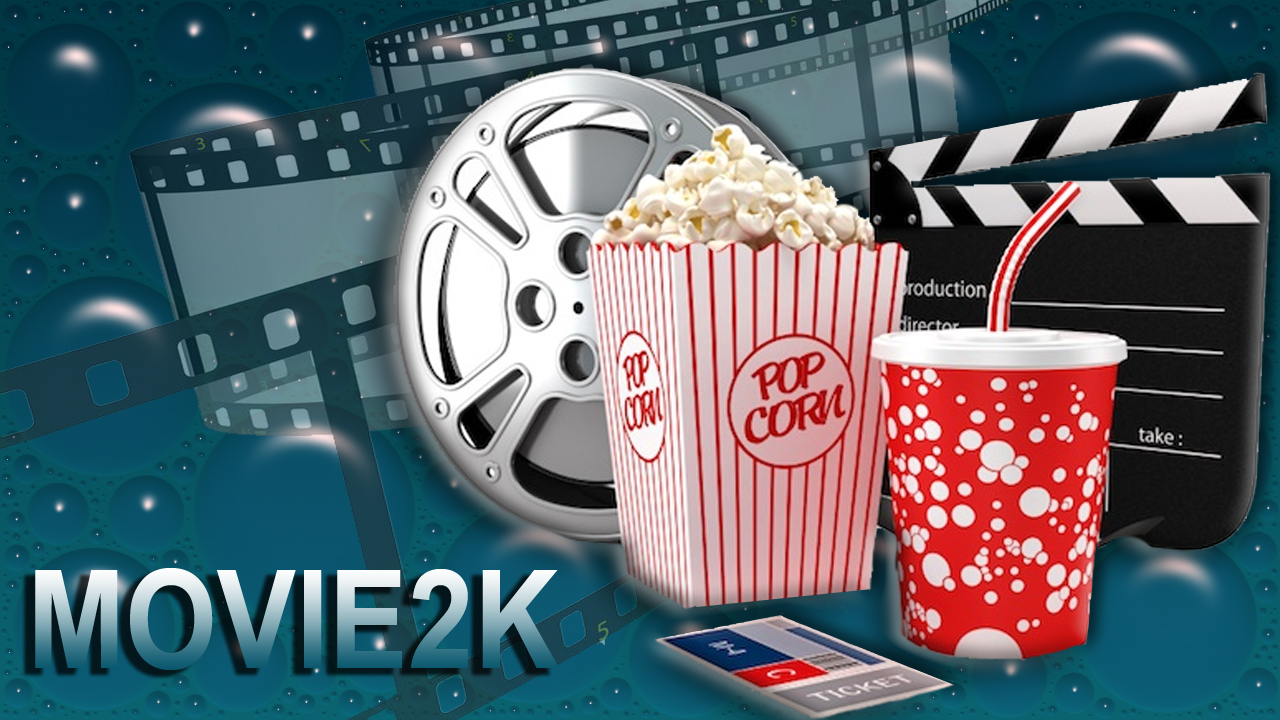
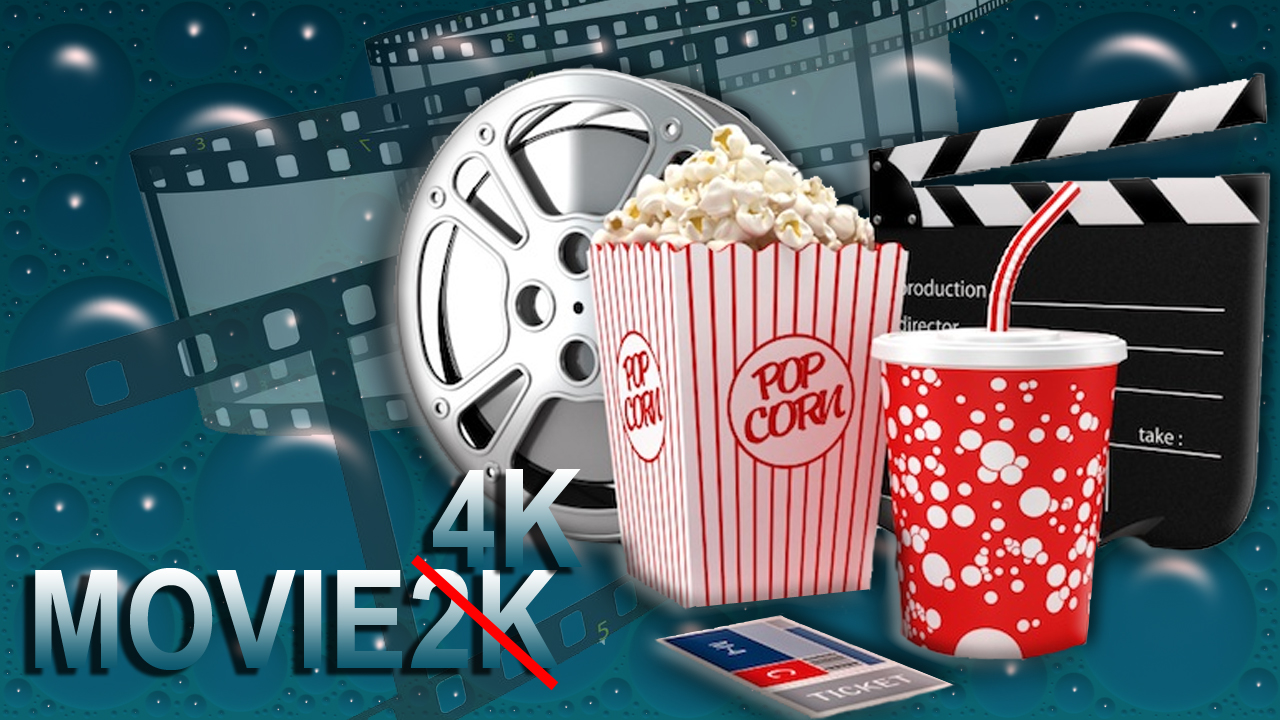
Modified plug-in to match site being moved to movie4k.to

Changed region(s): [[0.3125, 0.6417, 0.4688, 0.8556], [0.375, 0.8556, 0.4375, 0.9472]]

diff --git a/Contents/Code/__init__.py b/Contents/Code/__init__.py
@@ -128,21 +128,22 @@ def Movie2kLogin():
 
 	username = Prefs["username"]
 	password = Prefs["password"]
-	cookiejar = {"xxx2": "ok", "domain": ".movie2k.to", "path": "/", "onlylanguage": "deleted", "lang": "us"}
+	cookiejar = {"xxx2": "ok", "domain": ".movie4k.to", "path": "/", "onlylanguage": "deleted", "lang": "en"}
 	Dict['_movie2k_uid'] = cookiejar
+	HTTP.Headers['Cookie'] = cookiejar
 
 	if (username != None) and (password != None):
 		try:
 			files = {}
+			cookies = {}
 			session = requests.session()
-			url = "http://"+MOVIE2K_URL + "/login.php?ua=login"
+			url = "http://" + MOVIE2K_URL + "/login.php?ua=login"
 			authentication_values = {"username": username, "password": password}
 			authentication_headers = {"Host": MOVIE2K_URL, "Referer": url, "User-Agent": UserAgent[UserAgentNum]}
 			req = session.post(url, data=authentication_values, headers=authentication_headers, files=files, allow_redirects=True)
 			data = req.content.split('<div id="maincontent4">')[1].split('<STRONG>')[1].split('</STRONG>')[0]
 
-			if data == "Logged in!":
-				cookies = {}			
+			if data == "Logged in!":			
 				for key, value in session.cookies.items():
 					cookies[key] = value
 				cookiejar.update(cookies)
@@ -161,7 +162,7 @@ def Movie2kLogin():
 @route(PREFIX + '/Search')
 def Search(query):
 
-	#Search movie2k.to for movies using user input, and populate a list with the results
+	#Search movie4k.to for movies using user input, and populate a list with the results
 
 	# Create a container to hold the results
 	oc = ObjectContainer(title2="Search Results", view_group="InfoList")
@@ -175,7 +176,8 @@ def Search(query):
 	type = 'N/A'
 	dateadd = 'N/A'
 	ads = 'ads.affbuzzads.com'
-	url = "http://" + MOVIE2K_URL + '/movies.php?list=search'
+	Log("MOVIE2k: "+MOVIE2K_URL)
+	url = 'http://' + MOVIE2K_URL + '/movies.php?list=search'
 	payload = {'search': query}
 	files = {}
 	cookies = Dict['_movie2k_uid']
@@ -208,14 +210,18 @@ def Search(query):
 		MOVIES_TITLE = re.sub('\t', '', MOVIES_TD[1].split('<a')[1].split('">')[1].split('</a>')[0]).replace('  ', '')
 
 		try:
-			MOVIES_YEAR = MOVIES_TD[2].split('<div')[9].split('>')[1].split('<')[0]
+			MOVIES_YEAR = MOVIES_TD[2].split('<div')[8].split('>')[1].split('<')[0]
 			if MOVIES_YEAR == "":
 				MOVIES_YEAR = "N/A"
 		except:
 			MOVIES_YEAR = "N/A"
 
 		try:
-			MOVIES_LANG = GetLang(lang=MOVIES_TD[5].split('src="')[1].split('"')[0].split('/')[4].split('.')[0])
+			LANGUAGE_URL = MOVIES_TD[5].split('src="')[1].split('"')[0]
+			try:
+				MOVIES_LANG = GetLang(lang=LANGUAGE_URL.split('/')[5].split('.')[0])
+			except:
+				MOVIES_LANG = GetLang(lang=LANGUAGE_URL.split('/')[4].split('.')[0])
 		except:
 			MOVIES_LANG = "N/A"
 		MOVIES_SUMMARY = "Year: "+MOVIES_YEAR+" | Lang: "+MOVIES_LANG+" | Part of the search line up on Movie2k."
@@ -383,7 +389,11 @@ def TVShowsList(title, page, genre, type):
 	for List in HTML.ElementFromURL(page).xpath('//div[@id="maincontent4"]/table[@id="tablemoviesindex"]/tr'):
 		MOVIES_TD = List.xpath('./td[@id="tdmovies"]')
 		try:
-			MOVIES_LANG = GetLang(lang=MOVIES_TD[1].xpath("./img")[0].get('src').split('/')[4].split('.')[0])
+			LANGUAGE_URL = MOVIES_TD[1].xpath("./img")[0].get('src')
+			try:
+				MOVIES_LANG = GetLang(lang=LANGUAGE_URL.split('/')[5].split('.')[0])
+			except:
+				MOVIES_LANG = GetLang(lang=LANGUAGE_URL.split('/')[4].split('.')[0])
 		except:
 			MOVIES_LANG = "N/A"
 		ICON_MOVIES = "icon-"+genre.lower()+".png"
@@ -419,7 +429,11 @@ def FeaturedTVShowsPageAdd(title, page, type):
 		TVSHOW_TITLE = TVSHOWS_DIV[i].xpath("./a/img")[0].get('title')
 		i += 1
 		TVSHOW_YEAR = re.sub('\s', '', TVSHOWS_DIV[i].xpath('./div[@class="beschreibung"]')[0].text_content().split('Land/Year: ')[1].split('/')[1].split(' ')[0])
-		TVSHOW_LANG = GetLang(lang=TVSHOWS_DIV[i].xpath("./h2//img")[0].get('src').split('/')[4].split('.')[0])
+		LANGUAGE_URL = TVSHOWS_DIV[i].xpath("./h2//img")[0].get('src')
+		try:
+			TVSHOW_LANG = GetLang(lang=LANGUAGE_URL.split('/')[5].split('.')[0])
+		except:
+			TVSHOW_LANG = GetLang(lang=LANGUAGE_URL.split('/')[4].split('.')[0])
 		TVSHOW_SUMMARY = "Year: "+TVSHOW_YEAR+" | Lang: "+TVSHOW_LANG+" | Part of the Featured TV Show line up on Movie2k."
 		i += 2
 		oc.add(DirectoryObject(key=Callback(SubMoviePageAdd, title=TVSHOW_TITLE, page=TVSHOW_PAGE, date=TVSHOW_YEAR, dateadd=dateadd, thumbck=TVSHOW_THUMB, type=type), title=TVSHOW_TITLE, summary=TVSHOW_SUMMARY, thumb=Callback(GetThumb, url=TVSHOW_THUMB)))
@@ -436,7 +450,11 @@ def TVShowSeasons(title, page, genre, type):
 	for Seasons in HTML.ElementFromURL(page).xpath('//div[@id="maincontent4"]/table[@id="tablemoviesindex"]/tr'):
 		MOVIES_TD = Seasons.xpath('./td[@id="tdmovies"]')
 		try:
-			MOVIES_LANG = GetLang(lang=MOVIES_TD[1].xpath("./img")[0].get('src').split('/')[4].split('.')[0])
+			LANGUAGE_URL = MOVIES_TD[1].xpath("./img")[0].get('src')
+			try:
+				MOVIES_LANG = GetLang(lang=LANGUAGE_URL.split('/')[5].split('.')[0])
+			except:
+				MOVIES_LANG = GetLang(lang=LANGUAGE_URL.split('/')[4].split('.')[0])
 		except:
 			MOVIES_LANG = "N/A"
 		ICON_MOVIES = "icon-"+genre.lower()+".png"
@@ -461,7 +479,11 @@ def TVShowEpisodes(title, page, genre, type):
 	for Episodes in HTML.ElementFromURL(page).xpath('//div[@id="maincontent4"]/table[@id="tablemoviesindex"]/tr'):
 		MOVIES_TD = Episodes.xpath('./td[@id="tdmovies"]')
 		try:
-			MOVIES_LANG = GetLang(lang=MOVIES_TD[4].xpath("./img")[0].get('src').split('/')[4].split('.')[0])
+			LANGUAGE_URL = MOVIES_TD[4].xpath("./img")[0].get('src')
+			try:
+				MOVIES_LANG = GetLang(lang=LANGUAGE_URL.split('/')[5].split('.')[0])
+			except:
+				MOVIES_LANG = GetLang(lang=LANGUAGE_URL.split('/')[4].split('.')[0])
 		except:
 			MOVIES_LANG = "N/A"
 		DATE_ADDED = MOVIES_TD[3].text
@@ -470,7 +492,7 @@ def TVShowEpisodes(title, page, genre, type):
 		MOVIES_SUMMARY = "Added: "+DATE_ADDED+" | Lang: "+MOVIES_LANG+" | Part of the "+genre+" TV Shows episode line up on Movie2k."
 		MOVIES_PAGE = MOVIES_TD[0].xpath('./a')[0].get('href')
 		if THUMB == 0:
-			GET_THUMB = HTML.ElementFromURL("http://"+MOVIE2K_URL+"/"+MOVIES_PAGE).xpath('//div[@id="maincontent5"]/div/div')[1]
+			GET_THUMB = HTML.ElementFromURL("http://"+MOVIE2K_URL+"/"+MOVIES_PAGE).xpath('//div[@id="maincontent5"]/div/div')[0]
 			MOVIES_THUMB = GET_THUMB.xpath('./a/img')[0].get('src')
 			THUMB = 1
 
@@ -520,7 +542,7 @@ def Movies(title, type):
 	
 	NotSkip = True
 	cookies = Dict['_movie2k_uid']
-	headers = {"Accept": "text/html,application/xhtml+xml,application/xml;q=0.9,*/*;q=0.8", "Accept-Charset": "ISO-8859-1,utf-8;q=0.7,*;q=0.3", "Accept-Encoding": "gzip,deflate,sdch", "Accept-Language": "en-US,en;q=0.8", "Connection": "keep-alive", "Host": MOVIE2K_URL, "Referer": "http://"+MOVIE2K_URL, "User-Agent": "Mozilla/5.0 (Windows NT 6.1; WOW64) AppleWebKit/537.31 (KHTML, like Gecko) Chrome/26.0.1410.64 Safari/537.31"}
+	headers = {"Accept": "text/html,application/xhtml+xml,application/xml;q=0.9,*/*;q=0.8", "Accept-Charset": "ISO-8859-1,utf-8;q=0.7,*;q=0.3", "Accept-Encoding": "gzip,deflate,sdch", "Accept-Language": "en-US,en;q=0.8", "Connection": "keep-alive", "Host": MOVIE2K_URL, "Referer": "http://"+MOVIE2K_URL, "User-Agent": UserAgent[UserAgentNum]}
 	req = requests.get(GENRE_PAGE, headers=headers, cookies=cookies)
 
 	for Genre in HTML.ElementFromString(req.content).xpath('//div[@id="content"]/table[@id="tablemovies"]/tr'):
@@ -554,7 +576,7 @@ def MovieGenres(title, page, genre, thumb, type):
 	i = 1
 	MOVIES = page+"1.html"
 	cookies = Dict['_movie2k_uid']
-	headers = {"Accept": "text/html,application/xhtml+xml,application/xml;q=0.9,*/*;q=0.8", "Accept-Charset": "ISO-8859-1,utf-8;q=0.7,*;q=0.3", "Accept-Encoding": "gzip,deflate,sdch", "Accept-Language": "en-US,en;q=0.8", "Connection": "keep-alive", "Host": MOVIE2K_URL, "Referer": "http://"+MOVIE2K_URL, "User-Agent": "Mozilla/5.0 (Windows NT 6.1; WOW64) AppleWebKit/537.31 (KHTML, like Gecko) Chrome/26.0.1410.64 Safari/537.31"}
+	headers = {"Accept": "text/html,application/xhtml+xml,application/xml;q=0.9,*/*;q=0.8", "Accept-Charset": "ISO-8859-1,utf-8;q=0.7,*;q=0.3", "Accept-Encoding": "gzip,deflate,sdch", "Accept-Language": "en-US,en;q=0.8", "Connection": "keep-alive", "Host": MOVIE2K_URL, "Referer": "http://"+MOVIE2K_URL, "User-Agent": UserAgent[UserAgentNum]}
 	req = requests.get(MOVIES, headers=headers, cookies=cookies)
 	NUMPAGES = len(HTML.ElementFromString(req.content).xpath('//div[@id="maincontent4"]/div[@id="boxgrey"]')) + 1
 	
@@ -578,7 +600,7 @@ def CinemaMoviePageAdd(title, page, type):
 	oc = ObjectContainer(title2=title)
 	
 	cookies = Dict['_movie2k_uid']
-	headers = {"Accept": "text/html,application/xhtml+xml,application/xml;q=0.9,*/*;q=0.8", "Accept-Charset": "ISO-8859-1,utf-8;q=0.7,*;q=0.3", "Accept-Encoding": "gzip,deflate,sdch", "Accept-Language": "en-US,en;q=0.8", "Connection": "keep-alive", "Host": MOVIE2K_URL, "Referer": "http://"+MOVIE2K_URL, "User-Agent": "Mozilla/5.0 (Windows NT 6.1; WOW64) AppleWebKit/537.31 (KHTML, like Gecko) Chrome/26.0.1410.64 Safari/537.31"}
+	headers = {"Accept": "text/html,application/xhtml+xml,application/xml;q=0.9,*/*;q=0.8", "Accept-Charset": "ISO-8859-1,utf-8;q=0.7,*;q=0.3", "Accept-Encoding": "gzip,deflate,sdch", "Accept-Language": "en-US,en;q=0.8", "Connection": "keep-alive", "Host": MOVIE2K_URL, "Referer": "http://"+MOVIE2K_URL, "User-Agent": UserAgent[UserAgentNum]}
 	req = requests.get(page, headers=headers, cookies=cookies)
 	CINEMA_MOVIE_PAGE = HTML.ElementFromString(req.content)
 	dateadd = 'N/A'
@@ -608,13 +630,13 @@ def CinemaMoviePageAdd(title, page, type):
 def MoviePageAdd(title, page, genre, type):
 	
 	oc = ObjectContainer(title2=title)
-	cookies = Dict['_movie2k_uid']
-	headers = {"Accept": "text/html,application/xhtml+xml,application/xml;q=0.9,*/*;q=0.8", "Accept-Charset": "ISO-8859-1,utf-8;q=0.7,*;q=0.3", "Accept-Encoding": "gzip,deflate,sdch", "Accept-Language": "en-US,en;q=0.8", "Connection": "keep-alive", "Host": MOVIE2K_URL, "Referer": "http://"+MOVIE2K_URL, "User-Agent": "Mozilla/5.0 (Windows NT 6.1; WOW64) AppleWebKit/537.31 (KHTML, like Gecko) Chrome/26.0.1410.64 Safari/537.31"}
 
+	cookies = Dict['_movie2k_uid']
+	headers = {"Accept": "text/html,application/xhtml+xml,application/xml;q=0.9,*/*;q=0.8", "Accept-Charset": "ISO-8859-1,utf-8;q=0.7,*;q=0.3", "Accept-Encoding": "gzip,deflate,sdch", "Accept-Language": "en-US,en;q=0.8", "Connection": "keep-alive", "Host": MOVIE2K_URL, "Referer": "http://"+MOVIE2K_URL, "User-Agent": UserAgent[UserAgentNum]}
 	GENRE_PAGE = page+".html"
 	req = requests.get(GENRE_PAGE, headers=headers, cookies=cookies)
 	GENRE_MOVIE_PAGE = HTML.ElementFromString(req.content)
-	Log(req.cookies)
+
 	try:
 		GET_THUMB = GENRE_MOVIE_PAGE.xpath('//div[@id="maincontent4"]/script')[0].text
 	except:
@@ -628,13 +650,22 @@ def MoviePageAdd(title, page, genre, type):
 		else:
 			dateadd = 'N/A'
 		try:
-			MOVIES_YEAR = MOVIES_TD[1].xpath("./div")[8].text
+			MOVIES_YEAR = MOVIES_TD[1].xpath("./div")[7].text
 			if MOVIES_YEAR == None:
 				MOVIES_YEAR = "N/A"
 		except:
 			MOVIES_YEAR = "N/A"
+
 		try:
-			MOVIES_LANG = GetLang(lang=MOVIES_TD[4].xpath("./img")[0].get('src').split('/')[4].split('.')[0])
+			LANGUAGE_URL = MOVIES_TD[4].xpath("./img")[0].get('src')
+		except:
+			LANGUAGE_URL = MOVIES_TD[2].xpath("./img")[0].get('src')
+
+		try:
+			try:
+				MOVIES_LANG = GetLang(lang=LANGUAGE_URL.split('/')[5].split('.')[0])
+			except:
+				MOVIES_LANG = GetLang(lang=LANGUAGE_URL.split('/')[4].split('.')[0])
 		except:
 			MOVIES_LANG = "N/A"
 		MOVIES_SUMMARY = "Year: "+MOVIES_YEAR+" | Lang: "+MOVIES_LANG+" | Part of the "+genre+" "+type+" line up on Movie2k."
@@ -668,9 +699,9 @@ def SubMoviePageAdd(title, page, date, dateadd, thumbck, type):
 
 	oc = ObjectContainer(title2=title)
 
-	MOVIE_PAGE_HTML = HTML.ElementFromURL("http://"+MOVIE2K_URL+page)
+	MOVIE_PAGE_HTML = HTML.ElementFromURL("http://"+MOVIE2K_URL+"/"+page)
 
-	GET_THUMB = MOVIE_PAGE_HTML.xpath('//div[@id="maincontent5"]/div/div')[1]
+	GET_THUMB = MOVIE_PAGE_HTML.xpath('//div[@id="maincontent5"]/div/div')[0]
 	thumb = GET_THUMB.xpath('./a/img')[0].get('src')
 
 	if thumb.split('/')[4] == "noposter.gif":
@@ -679,7 +710,7 @@ def SubMoviePageAdd(title, page, date, dateadd, thumbck, type):
 
 	NumHostListing1 = len(MOVIE_PAGE_HTML.xpath('//div[@id="menu"]//tr[@id="tablemoviesindex2"]'))
 	StringListing = MOVIE_PAGE_HTML.xpath('//div[@id="menu"]//script[@type="text/javascript"]')
-	NumStringListing = len(StringListing) - 1
+	NumStringListing = len(StringListing)
 	NumHostListing2 = 0
 	nsl = 0
 	i = 1
@@ -709,7 +740,7 @@ def TheMovieListings(title, page, date, dateadd, thumb, type, PageOfHosts):
 
 	oc = ObjectContainer(title2=title)
 
-	MOVIE_PAGE_HTML = HTML.ElementFromURL("http://"+MOVIE2K_URL+page)
+	MOVIE_PAGE_HTML = HTML.ElementFromURL("http://"+MOVIE2K_URL+"/"+page)
 	MOVIE_INFO = MOVIE_PAGE_HTML.xpath('//div[@id="details"]')[0].text_content()
 	source_title = "Movie2k"
 
@@ -744,7 +775,7 @@ def TheMovieListings(title, page, date, dateadd, thumb, type, PageOfHosts):
 	date = Datetime.ParseDate(date, "%Y")
 	
 	genres = []
-	genre = re.sub("\s", "", MOVIE_INFO.split('Genre: ')[1].split('|')[0])
+	genre = re.sub("\s", "", MOVIE_INFO.split('Genre:')[1].split('|')[0])
 	genres = genre.split(',')
 
 	try:
@@ -761,10 +792,10 @@ def TheMovieListings(title, page, date, dateadd, thumb, type, PageOfHosts):
 	directors = []
 	try:
 		try:
-			director = MOVIE_INFO.split('Director: ')[1].split('|')[0]
+			director = MOVIE_INFO.split('Director:')[1].split('|')[0]
 			directors = director.split(',')
 		except:
-			director = MOVIE_INFO.split('Regie: ')[1].split('|')[0]
+			director = MOVIE_INFO.split('Regie:')[1].split('|')[0]
 			directors = director.split(',')
 	except:
 		director = 'Not Available'
@@ -773,10 +804,10 @@ def TheMovieListings(title, page, date, dateadd, thumb, type, PageOfHosts):
 	guest_stars = []
 	try:
 		try:
-			actors = MOVIE_INFO.split('Actors: ')[1]
+			actors = MOVIE_INFO.split('Actors:')[1]
 			guest_stars = actors.split(',')
 		except:
-			actors = MOVIE_INFO.split('Schauspieler: ')[1]
+			actors = MOVIE_INFO.split('Schauspieler:')[1]
 			guest_stars = actors.split(',')
 	except:
 		actors = None
@@ -803,7 +834,7 @@ def TheMovieListings(title, page, date, dateadd, thumb, type, PageOfHosts):
 			content_rating = 'NR'
 
 	try:
-		subtitle = MOVIE_PAGE_HTML.xpath('//div[@id="maincontent5"]/div/div')[2]
+		subtitle = MOVIE_PAGE_HTML.xpath('//div[@id="maincontent5"]/div/div')[1]
 		try:
 			season = int(subtitle.xpath('./span/h1/a/span')[0].text.split('Season ')[1].split(',')[0].replace(' ', ''))
 			index = int(subtitle.xpath('./span/h1/a/span')[0].text.split('Episode ')[1].replace(' ', ''))
@@ -821,7 +852,7 @@ def TheMovieListings(title, page, date, dateadd, thumb, type, PageOfHosts):
 	Listing = MOVIE_PAGE_HTML.xpath('//div[@id="menu"]//tr[@id="tablemoviesindex2"]')
 	StringListing = MOVIE_PAGE_HTML.xpath('//div[@id="menu"]//script[@type="text/javascript"]')
 	NumHostListing1 = len(Listing)
-	NumStringListing = len(StringListing) - 1
+	NumStringListing = len(StringListing)
 	NumHostListing2 = 0
 	CreatePage = True
 	CurrentPage = 1
@@ -854,7 +885,7 @@ def TheMovieListings(title, page, date, dateadd, thumb, type, PageOfHosts):
 	while CreatePage:
 		if i < NumHostListing1:
 			Host = Listing[i].xpath("./td/a/img")[0].get('title').split(' ')[0].capitalize()
-			MOVIE_PAGE = "http://" + MOVIE2K_URL + Listing[i].xpath("./td/a")[0].get('href')
+			MOVIE_PAGE = "http://" + MOVIE2K_URL + "/" + Listing[i].xpath("./td/a")[0].get('href')
 			if type == 'TV Shows':
 				DateAdded = dateadd
 				Quality = "DVDRip/BDRip"
@@ -869,7 +900,7 @@ def TheMovieListings(title, page, date, dateadd, thumb, type, PageOfHosts):
 			NumHosts = len(ScriptListing) - 2	
 
 			Host = ScriptListing[sll].split('title=\\"')[1].split('\\"')[0].split(' ')[0].capitalize()
-			MOVIE_PAGE = "http://" + MOVIE2K_URL + ScriptListing[sll].split('href=\\"')[1].split('\\"')[0]
+			MOVIE_PAGE = "http://" + MOVIE2K_URL + "/" + ScriptListing[sll].split('href=\\"')[1].split('\\"')[0]
 			if type == 'TV Shows':
 				DateAdded = dateadd
 				Quality = "DVDRip/BDRip"
